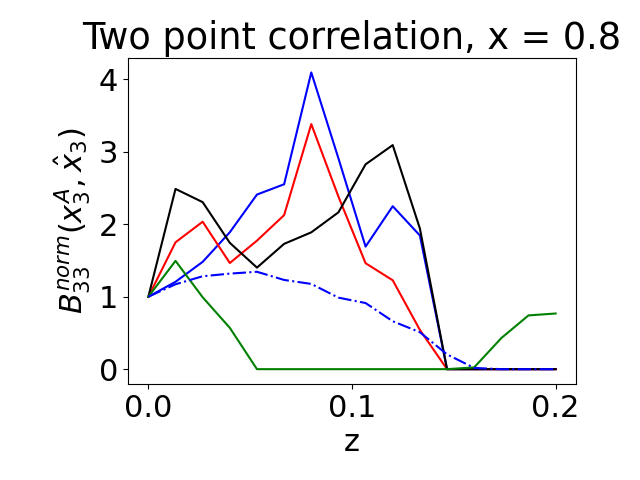
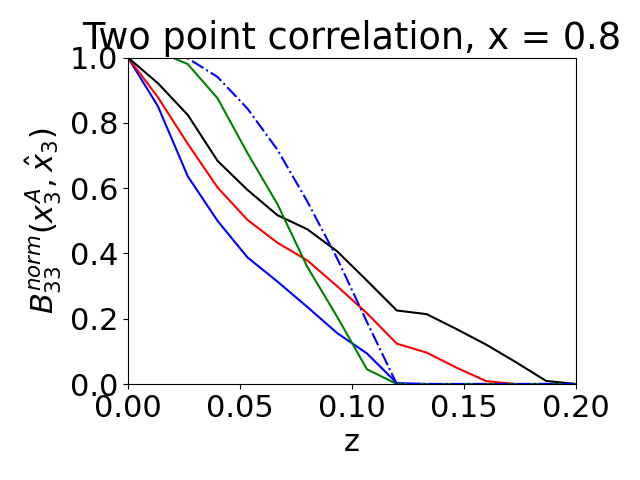
bugfix

diff --git a/Assignment 2/Assignment 2b/pl_twocorr_computed_fk.py b/Assignment 2/Assignment 2b/pl_twocorr_computed_fk.py
@@ -103,20 +103,21 @@ w_y_z_t= np.reshape(w_time,(nt,nj,nk))
 w_y_z_t_130= np.swapaxes(w_y_z_t,0,2) #nk,nj,nt
 w_y_z_t_130= np.swapaxes(w_y_z_t_130,0,1)
 
-B33_norm = np.zeros((4,nj,nk))
-for x in range(len(B33_norm[:,0,0])):
+x_pos = [0.65,0.8,1.1,1.3]
+B33_norm = np.zeros((len(x_pos),nj,nk))
+for x in range(len(x_pos)):
    for j in range(nj):
       for k in range(nk):
          for n in range(nt):
             match x:
                case 1:
-                  B33_norm[x,j,k] = w_y_z_t_65[j,9,n]*w_y_z_t_65[j,k,n]/nt
+                  B33_norm[x,j,k] = B33_norm[x,j,k] + w_y_z_t_65[j,0,n]*w_y_z_t_65[j,k,n]/nt
                case 2:
-                  B33_norm[x,j,k] = w_y_z_t_80[j,0,n]*w_y_z_t_80[j,k,n]/nt
+                  B33_norm[x,j,k] = B33_norm[x,j,k] + w_y_z_t_80[j,0,n]*w_y_z_t_80[j,k,n]/nt
                case 3:
-                  B33_norm[x,j,k] = w_y_z_t_110[j,0,n]*w_y_z_t_110[j,k,n]/nt
+                  B33_norm[x,j,k] = B33_norm[x,j,k] + w_y_z_t_110[j,0,n]*w_y_z_t_110[j,k,n]/nt
                case 4:
-                  B33_norm[x,j,k] = w_y_z_t_130[j,0,n]*w_y_z_t_130[j,k,n]/nt
+                  B33_norm[x,j,k] = B33_norm[x,j,k] + w_y_z_t_130[j,0,n]*w_y_z_t_130[j,k,n]/nt
 
 
       B33_norm[x,j,:] = B33_norm[x,j,:]/B33_norm[x,j,0]
@@ -126,19 +127,20 @@ for x in range(len(B33_norm[:,0,0])):
 
 
 z = np.linspace(0,0.2,nk)
-x = [0.65,0.8,1.1,1.3]
 for fig in range(4):
    plt.figure()
    plt.subplots_adjust(left=0.20,bottom=0.20)
-   plt.plot(z,B33_norm[fig,0,:],"b")
-   plt.plot(z,B33_norm[fig,1,:],"r")
-   plt.plot(z,B33_norm[fig,2,:],"k")
-   plt.plot(z,B33_norm[fig,3,:],"g")
-   plt.plot(z,B33_norm[fig,4,:],"b-.")
+   plt.plot(z,B33_norm[fig,0,:],"b",label="$j=10$")
+   plt.plot(z,B33_norm[fig,1,:],"r",label="$j=30$")
+   plt.plot(z,B33_norm[fig,2,:],"k",label="$j=50$")
+   plt.plot(z,B33_norm[fig,3,:],"g",label="$j=70$")
+   plt.plot(z,B33_norm[fig,4,:],"b-.",label="$j=90$")
 
+   plt.ylim([0,1])
+   plt.xlim([z[0],z[-1]])
    plt.xlabel("z")
    plt.ylabel("$B_{33}^{norm} ( x_3^A,\hat{x}_3)$")
-   plt.title(f"Two point correlation, x = {x[fig]}")
+   plt.title(f"Two point correlation, x = {x_pos[fig]}")
    plt.savefig("Assignment 2/Assignment 2b/2point" + str(fig) + ".png")
 
 xy= np.loadtxt(name_dat + "hump_grid_nasa_les_coarse_noflow.dat")
